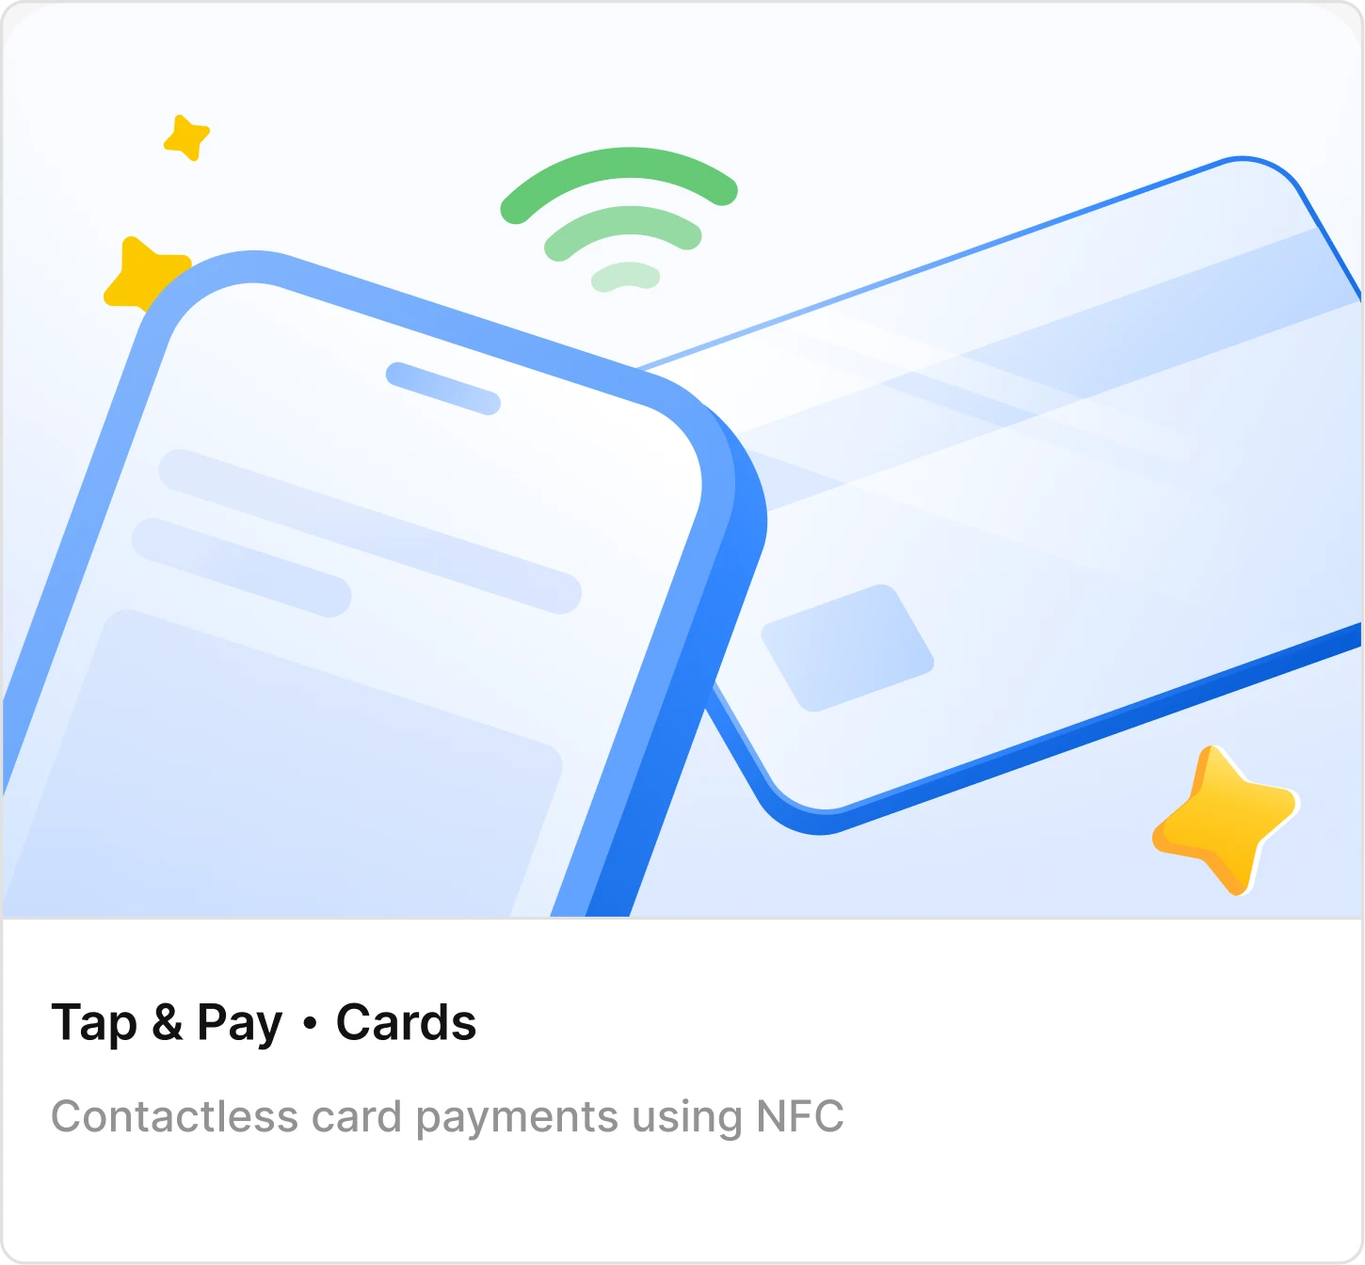
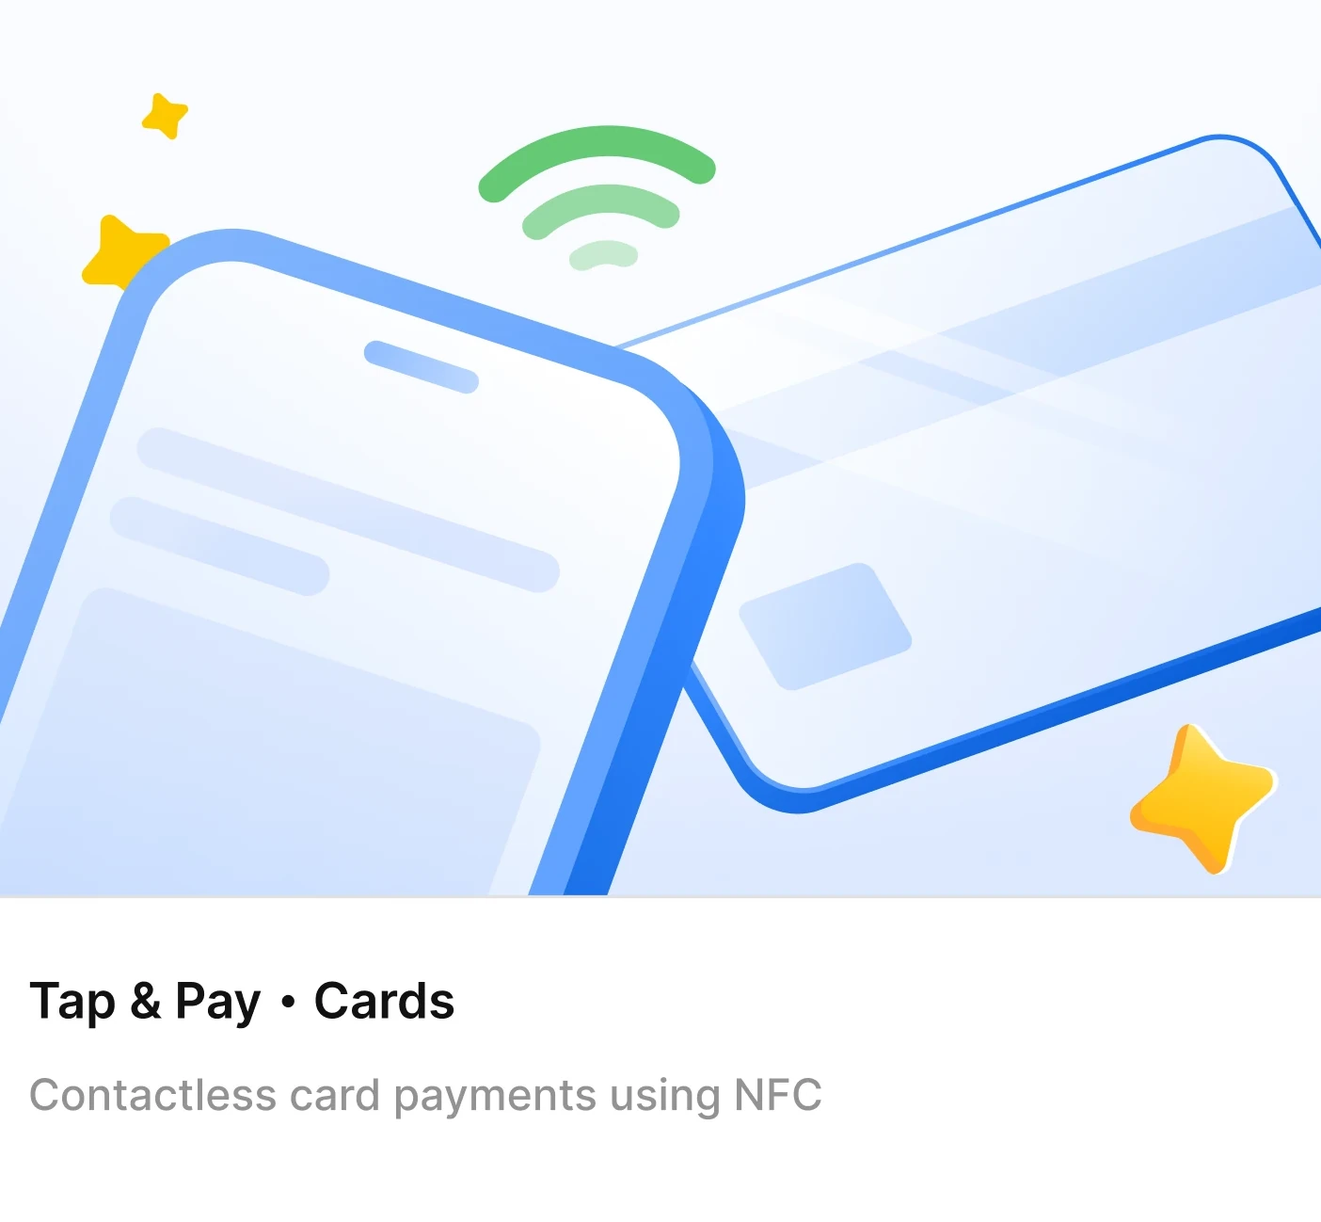
feat: minor bug fixes and formatting

diff --git a/work/juspay-dashboard.html b/work/juspay-dashboard.html
@@ -10,7 +10,8 @@
 <body class="inner">
 <header class="band"><nav class="nav wrap" aria-label="Main">
   <a class="name" href="../index.html">Ankita Saha</a>
-  <div class="right">
+  <button class="nav-toggle" type="button" aria-label="Open menu" aria-expanded="false" aria-controls="nav-menu"><span></span><span></span><span></span></button>
+  <div class="right" id="nav-menu">
     <div class="links"><a href="../index.html#work" aria-current="page">Work</a><a href="../play.html">Play</a><a href="../assets/Ankita-Saha-Resume.pdf" target="_blank" rel="noopener" data-download="Ankita-Saha-Resume.pdf">Resume</a><a href="../about.html">About</a></div>
     <div class="social">
       <a href="https://mail.google.com/mail/?view=cm&fs=1&to=ankitasaha2310@gmail.com" target="_blank" rel="noopener" aria-label="Email Ankita"><svg viewBox="0 0 24 24" fill="none" stroke="currentColor" stroke-width="2" stroke-linejoin="round"><rect x="2.5" y="4.5" width="19" height="15" rx="3"/><path d="M3.5 7l8.5 6 8.5-6"/></svg></a>
@@ -18,7 +19,7 @@
       <a href="https://www.instagram.com/artsvetro/" target="_blank" rel="noopener" aria-label="Instagram"><svg viewBox="0 0 24 24" fill="none" stroke="currentColor" stroke-width="2"><rect x="2.5" y="2.5" width="19" height="19" rx="5.5"/><circle cx="12" cy="12" r="4.3"/><circle cx="17.6" cy="6.4" r="1.1" fill="currentColor" stroke="none"/></svg></a>
     </div>
   </div>
-</nav></header>
+</nav><div class="nav-scrim"></div></header>
 <main class="sheet">
   <h1 class="cs-title">Visual Design System</h1>
   <p class="lede">A visual design system for the Juspay dashboard, the control room of a platform processing over 300 million transactions a day. It spans a four-style icon library, a state illustration set with color reserved for meaning, and illustrated thumbnails for the feature catalog.</p>
@@ -85,8 +86,8 @@
     <div class="row cols-6" style="margin-top:calc(100 * var(--s))"><div><figure class="slot contain" style="--ar:1/1;background:transparent" data-label="Success"><img src="../assets/dashboard/status-success.webp" alt="" loading="lazy"></figure><p class="caption">Success</p></div><div><figure class="slot contain" style="--ar:1/1;background:transparent" data-label="Approved"><img src="../assets/dashboard/status-approved.webp" alt="" loading="lazy"></figure><p class="caption">Approved</p></div><div><figure class="slot contain" style="--ar:1/1;background:transparent" data-label="KYC Complete"><img src="../assets/dashboard/status-kyc-complete.webp" alt="" loading="lazy"></figure><p class="caption">KYC Complete</p></div><div><figure class="slot contain" style="--ar:1/1;background:transparent" data-label="Info"><img src="../assets/dashboard/status-info.webp" alt="" loading="lazy"></figure><p class="caption">Info</p></div><div><figure class="slot contain" style="--ar:1/1;background:transparent" data-label="Alert"><img src="../assets/dashboard/status-alert.webp" alt="" loading="lazy"></figure><p class="caption">Alert</p></div><div><figure class="slot contain" style="--ar:1/1;background:transparent" data-label="Error"><img src="../assets/dashboard/status-error.webp" alt="" loading="lazy"></figure><p class="caption">Error</p></div></div></section>
   <section class="sec"><div class="sec-head"><h2 class="xl">Thumbnails</h2><p>Covers that explain a feature before anyone reads the card.</p></div>
     <div class="row cols-2" style="text-align:center;font:500 max(15px,calc(24 * var(--s)))/1.2 var(--f-body);margin-bottom:calc(40 * var(--s))"><span>Before</span><span>After</span></div>
-    <div class="row cols-2"><figure class="slot contain" style="--ar:751/672;background:transparent" data-label="assets/dashboard/thumbnail-before.webp  (751×672)"><img src="../assets/dashboard/thumbnail-before.webp" alt="Feature thumbnail before the redesign" loading="lazy"></figure><figure class="slot contain" style="--ar:751/672;background:transparent" data-label="assets/dashboard/thumbnail-after.webp  (751×672)"><img src="../assets/dashboard/thumbnail-after.webp" alt="Feature thumbnail after the redesign" loading="lazy"></figure></div>
-    <div style="margin-top:calc(60 * var(--s))"><figure class="slot " style="--ar:3064/2849;background:transparent" data-label="assets/dashboard/thumbnail-grid.webp"><img src="../assets/dashboard/thumbnail-grid.webp" alt="Grid of illustrated feature thumbnails" loading="lazy"></figure></div></section>
+    <div class="row cols-2"><figure class="slot contain thumb-card" style="--ar:1457/1296;background:transparent" data-label="assets/dashboard/thumbnail-before.webp  (1457×1296)"><img src="../assets/dashboard/thumbnail-before.webp" alt="Feature thumbnail before the redesign" loading="lazy"></figure><figure class="slot contain thumb-card thumb-after" style="--ar:1404/1298;background:transparent" data-label="assets/dashboard/thumbnail-after.webp  (1404×1298)"><img src="../assets/dashboard/thumbnail-after.webp" alt="Feature thumbnail after the redesign" loading="lazy"></figure></div>
+    <div style="margin-top:calc(60 * var(--s))"><figure class="slot " style="--ar:3032/2817;background:transparent" data-label="assets/dashboard/thumbnail-grid.webp"><img src="../assets/dashboard/thumbnail-grid.webp" alt="Grid of illustrated feature thumbnails" loading="lazy"></figure></div></section>
 <nav class="proj-nav" aria-label="Project navigation"><a class="prev-proj" href="../work/hyperswitch-recon-video.html"><span class="np-label">Previous project</span><span class="np-title"><svg viewBox="0 0 24 24" fill="none" stroke="currentColor" stroke-width="2" stroke-linecap="round" stroke-linejoin="round" aria-hidden="true"><path d="M19 12H5M11 6l-6 6 6 6"/></svg>Hyperswitch Recon launch video</span></a><a class="next-proj" href="../work/xyne-icons.html"><span class="np-label">Next project</span><span class="np-title">Xyne icon system<svg viewBox="0 0 24 24" fill="none" stroke="currentColor" stroke-width="2" stroke-linecap="round" stroke-linejoin="round" aria-hidden="true"><path d="M5 12h14M13 6l6 6-6 6"/></svg></span></a></nav>
 </main>
 <script src="../site.js"></script>

diff --git a/style.css b/style.css
@@ -147,8 +147,6 @@ body.resume{background:var(--page)}
 /* ===== Mobile ===== */
 @media (max-width:760px){
   .wrap{width:calc(100% - 40px)}
-  .nav{flex-wrap:wrap;row-gap:10px}
-  .nav .right{gap:18px;width:100%;justify-content:space-between}
   .nav .links{gap:18px}
   .band{height:auto;padding:14px 0}
   #work{scroll-margin-top:96px}
@@ -360,3 +358,75 @@ body.resume::after{display:none}
 .np-title svg{display:inline-block;width:1em;height:1em;vertical-align:-.1em}
 .next-proj .np-title svg{margin-left:.3em}
 .prev-proj .np-title svg{margin-right:.3em}
+
+/* ===== Round 5: hero copy block, larger headline, mobile nav drawer ===== */
+/* Headline and the two meta lines read as one group, the meta sitting a little
+   down the hero rather than pinned to its bottom edge. The copy column is sized
+   to the headline's longest line (max-content), so the meta row spans exactly
+   the headline's width and "Designing Juspay" ends where the headline ends. */
+.hero-copy{justify-content:flex-start;gap:calc(96 * var(--s));
+  padding:calc(150 * var(--s)) 0 calc(36 * var(--s))}
+@media (min-width:761px){
+  /* max-content keeps the column exactly as wide as the headline's longest line;
+     on phones the copy stays a plain stacked column so nothing can overflow */
+  .hero-copy{display:grid;grid-template-columns:max-content;align-content:start;justify-items:start}
+  .hero .meta{width:100%}
+  .hero-art{width:89.72%;max-width:calc(581 * var(--s))}   /* 5% smaller than the Figma 612 */
+}
+.hero h1{font-size:max(32px,calc(84 * var(--s)))}
+
+/* --- mobile nav: hamburger + side drawer --- */
+.nav-toggle{display:none;background:none;border:0;padding:10px;margin:-10px -6px -10px 0;cursor:pointer;
+  color:inherit;flex-direction:column;justify-content:center;gap:5px;width:44px;height:44px}
+.nav-toggle span{display:block;width:22px;height:2px;background:currentColor;border-radius:2px;
+  transition:transform .25s ease,opacity .2s ease}
+.nav-scrim{display:none}
+@media (max-width:760px){
+  .nav{position:relative}
+  .nav-toggle{display:flex;position:relative;z-index:46}
+  body.nav-open .nav-toggle span:nth-child(1){transform:translateY(7px) rotate(45deg)}
+  body.nav-open .nav-toggle span:nth-child(2){opacity:0}
+  body.nav-open .nav-toggle span:nth-child(3){transform:translateY(-7px) rotate(-45deg)}
+
+  /* the menu itself becomes a panel that slides in from the right edge */
+  .nav .right{position:fixed;top:0;right:0;z-index:45;height:100dvh;width:min(76vw,300px);
+    background:var(--ink-dark);color:#fff;flex-direction:column;align-items:flex-start;justify-content:flex-start;
+    gap:32px;padding:calc(max(64px,118 * var(--s)) + 24px) 28px 32px;
+    transform:translateX(100%);transition:transform .3s ease;overflow-y:auto;
+    box-shadow:-12px 0 32px rgba(0,0,0,.25);visibility:hidden}
+  .band-light .right{background:#fff;color:var(--ink-dark)}
+  body.nav-open .nav .right{transform:none;visibility:visible}
+  .nav .links{flex-direction:column;align-items:flex-start;gap:22px;font-size:20px;letter-spacing:0}
+  .nav .social{gap:22px}
+  .nav .social svg{width:22px}
+
+  .nav-scrim{display:block;position:fixed;inset:0;z-index:42;background:rgba(0,0,0,.5);
+    opacity:0;pointer-events:none;transition:opacity .3s ease}
+  body.nav-open .nav-scrim{opacity:1;pointer-events:auto}
+  body.nav-open{overflow:hidden}
+}
+
+/* --- other small-screen fixes --- */
+@media (max-width:760px){
+  /* justified copy opens up rivers of whitespace at this measure */
+  .lede,.split p{text-align:left}
+  .hero h1{font-size:clamp(32px,8.5vw,46px)}
+  .hero-copy{padding:36px 0 0;gap:18px}
+  /* let the illustration size to its own height instead of sitting in a
+     letterboxed 612x637 box with dead space above and below */
+  .hero-art .slot{aspect-ratio:auto}
+  .hero-art .slot>img{position:static;width:100%;height:auto}
+  .cs-title{font-size:clamp(26px,7vw,34px)}
+  .proj-nav .np-title{font-size:clamp(18px,5.2vw,24px)}
+  .tabs{gap:8px}
+  .tabs button{padding:.5em 1em}
+}
+
+/* --- Juspay thumbnail cards --- */
+/* The card outline used to be baked into the artwork, flush with the image
+   boundary, where it rendered as a grey hairline. It is cropped out of the
+   source files now, so the silhouette is drawn here instead. The After art is
+   fractionally narrower than the Before art, so it is sized by width to keep
+   both cards at exactly the same height. */
+.thumb-card{border-radius:calc(10 * var(--s))}
+.thumb-after{width:96.22%;margin-inline:auto}

diff --git a/play.html b/play.html
@@ -10,7 +10,8 @@
 <body class="inner">
 <header class="band"><nav class="nav wrap" aria-label="Main">
   <a class="name" href="index.html">Ankita Saha</a>
-  <div class="right">
+  <button class="nav-toggle" type="button" aria-label="Open menu" aria-expanded="false" aria-controls="nav-menu"><span></span><span></span><span></span></button>
+  <div class="right" id="nav-menu">
     <div class="links"><a href="index.html#work">Work</a><a href="play.html" aria-current="page">Play</a><a href="assets/Ankita-Saha-Resume.pdf" target="_blank" rel="noopener" data-download="Ankita-Saha-Resume.pdf">Resume</a><a href="about.html">About</a></div>
     <div class="social">
       <a href="https://mail.google.com/mail/?view=cm&fs=1&to=ankitasaha2310@gmail.com" target="_blank" rel="noopener" aria-label="Email Ankita"><svg viewBox="0 0 24 24" fill="none" stroke="currentColor" stroke-width="2" stroke-linejoin="round"><rect x="2.5" y="4.5" width="19" height="15" rx="3"/><path d="M3.5 7l8.5 6 8.5-6"/></svg></a>
@@ -18,7 +19,7 @@
       <a href="https://www.instagram.com/artsvetro/" target="_blank" rel="noopener" aria-label="Instagram"><svg viewBox="0 0 24 24" fill="none" stroke="currentColor" stroke-width="2"><rect x="2.5" y="2.5" width="19" height="19" rx="5.5"/><circle cx="12" cy="12" r="4.3"/><circle cx="17.6" cy="6.4" r="1.1" fill="currentColor" stroke="none"/></svg></a>
     </div>
   </div>
-</nav></header>
+</nav><div class="nav-scrim"></div></header>
 <main class="sheet"><div class="play">
   <div class="prow"><div style="flex:1041 1 0"><figure class="slot " style="--ar:1041/477;" data-label="assets/play/forest-scene.webp  (1041×477)"><img src="assets/play/forest-scene.webp" alt="Tiger peeking out of a night jungle" loading="lazy"></figure></div><div style="flex:477 1 0"><figure class="slot " style="--ar:954/954;" data-label="assets/play/artwork-square.webp  (954×954)"><img src="assets/play/artwork-square.webp" alt="Multi-armed designer juggling tools" loading="lazy"></figure></div></div>
   <div class="prow"><div style="flex:505 1 0"><figure class="slot " style="--ar:1011/1265;" data-label="assets/play/artwork-portrait.webp  (1011×1265)"><img src="assets/play/artwork-portrait.webp" alt="Isometric Flam city illustration" loading="lazy"></figure></div><div style="flex:1011 1 0"><figure class="slot " style="--ar:2022/1264;" data-label="assets/play/artwork-wide.webp  (2022×1264)"><img src="assets/play/artwork-wide.webp" alt="Isometric retro objects on cream" loading="lazy"></figure></div></div>

diff --git a/work/hyperswitch-recon-video.html b/work/hyperswitch-recon-video.html
@@ -10,7 +10,8 @@
 <body class="inner">
 <header class="band"><nav class="nav wrap" aria-label="Main">
   <a class="name" href="../index.html">Ankita Saha</a>
-  <div class="right">
+  <button class="nav-toggle" type="button" aria-label="Open menu" aria-expanded="false" aria-controls="nav-menu"><span></span><span></span><span></span></button>
+  <div class="right" id="nav-menu">
     <div class="links"><a href="../index.html#work" aria-current="page">Work</a><a href="../play.html">Play</a><a href="../assets/Ankita-Saha-Resume.pdf" target="_blank" rel="noopener" data-download="Ankita-Saha-Resume.pdf">Resume</a><a href="../about.html">About</a></div>
     <div class="social">
       <a href="https://mail.google.com/mail/?view=cm&fs=1&to=ankitasaha2310@gmail.com" target="_blank" rel="noopener" aria-label="Email Ankita"><svg viewBox="0 0 24 24" fill="none" stroke="currentColor" stroke-width="2" stroke-linejoin="round"><rect x="2.5" y="4.5" width="19" height="15" rx="3"/><path d="M3.5 7l8.5 6 8.5-6"/></svg></a>
@@ -18,7 +19,7 @@
       <a href="https://www.instagram.com/artsvetro/" target="_blank" rel="noopener" aria-label="Instagram"><svg viewBox="0 0 24 24" fill="none" stroke="currentColor" stroke-width="2"><rect x="2.5" y="2.5" width="19" height="19" rx="5.5"/><circle cx="12" cy="12" r="4.3"/><circle cx="17.6" cy="6.4" r="1.1" fill="currentColor" stroke="none"/></svg></a>
     </div>
   </div>
-</nav></header>
+</nav><div class="nav-scrim"></div></header>
 <main class="sheet">
   <h1 class="cs-title">Recon by Hyperswitch</h1>
   <p class="lede roboto">Recon is Hyperswitch's reconciliation product. It automatically matches transactions across a business's order management systems, payment providers and bank accounts, so every payment can be traced from order to settlement.</p><p class="lede roboto">Made for merchants, the film opens with the problem: scattered data, clashing formats and endless manual checks. It then introduces Recon and walks through how it works, from ingesting and cleaning data to matching transactions, resolving mismatches and exporting reports. I developed the concept and visuals.</p>

diff --git a/work/sbmd-launch-video.html b/work/sbmd-launch-video.html
@@ -10,7 +10,8 @@
 <body class="inner">
 <header class="band"><nav class="nav wrap" aria-label="Main">
   <a class="name" href="../index.html">Ankita Saha</a>
-  <div class="right">
+  <button class="nav-toggle" type="button" aria-label="Open menu" aria-expanded="false" aria-controls="nav-menu"><span></span><span></span><span></span></button>
+  <div class="right" id="nav-menu">
     <div class="links"><a href="../index.html#work" aria-current="page">Work</a><a href="../play.html">Play</a><a href="../assets/Ankita-Saha-Resume.pdf" target="_blank" rel="noopener" data-download="Ankita-Saha-Resume.pdf">Resume</a><a href="../about.html">About</a></div>
     <div class="social">
       <a href="https://mail.google.com/mail/?view=cm&fs=1&to=ankitasaha2310@gmail.com" target="_blank" rel="noopener" aria-label="Email Ankita"><svg viewBox="0 0 24 24" fill="none" stroke="currentColor" stroke-width="2" stroke-linejoin="round"><rect x="2.5" y="4.5" width="19" height="15" rx="3"/><path d="M3.5 7l8.5 6 8.5-6"/></svg></a>
@@ -18,7 +19,7 @@
       <a href="https://www.instagram.com/artsvetro/" target="_blank" rel="noopener" aria-label="Instagram"><svg viewBox="0 0 24 24" fill="none" stroke="currentColor" stroke-width="2"><rect x="2.5" y="2.5" width="19" height="19" rx="5.5"/><circle cx="12" cy="12" r="4.3"/><circle cx="17.6" cy="6.4" r="1.1" fill="currentColor" stroke="none"/></svg></a>
     </div>
   </div>
-</nav></header>
+</nav><div class="nav-scrim"></div></header>
 <main class="sheet">
   <h1 class="cs-title">SBMD : Single block multi debit</h1>
   <p class="lede roboto">SBMD (Single Block, Multiple Debit) is a UPI payment option by Juspay that lets merchants block an amount once and debit it in parts as orders are fulfilled, while the customer's money keeps earning interest.</p><p class="lede roboto">Made for merchants, the film frames the problem, introduces SBMD as the fix and shows it at work in real use cases. I developed the concept, storyboard and key visuals.</p>

diff --git a/work/xyne-icons.html b/work/xyne-icons.html
@@ -10,7 +10,8 @@
 <body class="inner">
 <header class="band"><nav class="nav wrap" aria-label="Main">
   <a class="name" href="../index.html">Ankita Saha</a>
-  <div class="right">
+  <button class="nav-toggle" type="button" aria-label="Open menu" aria-expanded="false" aria-controls="nav-menu"><span></span><span></span><span></span></button>
+  <div class="right" id="nav-menu">
     <div class="links"><a href="../index.html#work" aria-current="page">Work</a><a href="../play.html">Play</a><a href="../assets/Ankita-Saha-Resume.pdf" target="_blank" rel="noopener" data-download="Ankita-Saha-Resume.pdf">Resume</a><a href="../about.html">About</a></div>
     <div class="social">
       <a href="https://mail.google.com/mail/?view=cm&fs=1&to=ankitasaha2310@gmail.com" target="_blank" rel="noopener" aria-label="Email Ankita"><svg viewBox="0 0 24 24" fill="none" stroke="currentColor" stroke-width="2" stroke-linejoin="round"><rect x="2.5" y="4.5" width="19" height="15" rx="3"/><path d="M3.5 7l8.5 6 8.5-6"/></svg></a>
@@ -18,7 +19,7 @@
       <a href="https://www.instagram.com/artsvetro/" target="_blank" rel="noopener" aria-label="Instagram"><svg viewBox="0 0 24 24" fill="none" stroke="currentColor" stroke-width="2"><rect x="2.5" y="2.5" width="19" height="19" rx="5.5"/><circle cx="12" cy="12" r="4.3"/><circle cx="17.6" cy="6.4" r="1.1" fill="currentColor" stroke="none"/></svg></a>
     </div>
   </div>
-</nav></header>
+</nav><div class="nav-scrim"></div></header>
 <main class="sheet">
   <h1 class="cs-title">Product Iconography System</h1>
   <p class="lede">Xyne Space is a collaborative workplace communication tool that brings teams' workflows into one place, so they no longer have to switch between tools. I designed its product iconography library: 135+ icons across 45+ core metaphors, built from clean geometric shapes on a shared grid, with one stroke weight and consistent rounded corners.</p>

diff --git a/about.html b/about.html
@@ -10,7 +10,8 @@
 <body class="inner">
 <header class="band"><nav class="nav wrap" aria-label="Main">
   <a class="name" href="index.html">Ankita Saha</a>
-  <div class="right">
+  <button class="nav-toggle" type="button" aria-label="Open menu" aria-expanded="false" aria-controls="nav-menu"><span></span><span></span><span></span></button>
+  <div class="right" id="nav-menu">
     <div class="links"><a href="index.html#work">Work</a><a href="play.html">Play</a><a href="assets/Ankita-Saha-Resume.pdf" target="_blank" rel="noopener" data-download="Ankita-Saha-Resume.pdf">Resume</a><a href="about.html" aria-current="page">About</a></div>
     <div class="social">
       <a href="https://mail.google.com/mail/?view=cm&fs=1&to=ankitasaha2310@gmail.com" target="_blank" rel="noopener" aria-label="Email Ankita"><svg viewBox="0 0 24 24" fill="none" stroke="currentColor" stroke-width="2" stroke-linejoin="round"><rect x="2.5" y="4.5" width="19" height="15" rx="3"/><path d="M3.5 7l8.5 6 8.5-6"/></svg></a>
@@ -18,7 +19,7 @@
       <a href="https://www.instagram.com/artsvetro/" target="_blank" rel="noopener" aria-label="Instagram"><svg viewBox="0 0 24 24" fill="none" stroke="currentColor" stroke-width="2"><rect x="2.5" y="2.5" width="19" height="19" rx="5.5"/><circle cx="12" cy="12" r="4.3"/><circle cx="17.6" cy="6.4" r="1.1" fill="currentColor" stroke="none"/></svg></a>
     </div>
   </div>
-</nav></header>
+</nav><div class="nav-scrim"></div></header>
 <main class="wrap about">
   <div class="bio">
     <p><b>Ankita Saha</b> is a visual designer and artist based in Bangalore, currently designing at Juspay. She holds a B.Tech in Computer Science and Engineering from Amity University, Kolkata, and brings over four years of multidisciplinary craft to high-scale digital platforms.</p>

diff --git a/index.html b/index.html
@@ -10,7 +10,8 @@
 <body class="home">
 <header class="band"><nav class="nav wrap" aria-label="Main">
   <a class="name" href="index.html">Ankita Saha</a>
-  <div class="right">
+  <button class="nav-toggle" type="button" aria-label="Open menu" aria-expanded="false" aria-controls="nav-menu"><span></span><span></span><span></span></button>
+  <div class="right" id="nav-menu">
     <div class="links"><a href="index.html#work">Work</a><a href="play.html">Play</a><a href="assets/Ankita-Saha-Resume.pdf" target="_blank" rel="noopener" data-download="Ankita-Saha-Resume.pdf">Resume</a><a href="about.html">About</a></div>
     <div class="social">
       <a href="https://mail.google.com/mail/?view=cm&fs=1&to=ankitasaha2310@gmail.com" target="_blank" rel="noopener" aria-label="Email Ankita"><svg viewBox="0 0 24 24" fill="none" stroke="currentColor" stroke-width="2" stroke-linejoin="round"><rect x="2.5" y="4.5" width="19" height="15" rx="3"/><path d="M3.5 7l8.5 6 8.5-6"/></svg></a>
@@ -18,7 +19,7 @@
       <a href="https://www.instagram.com/artsvetro/" target="_blank" rel="noopener" aria-label="Instagram"><svg viewBox="0 0 24 24" fill="none" stroke="currentColor" stroke-width="2"><rect x="2.5" y="2.5" width="19" height="19" rx="5.5"/><circle cx="12" cy="12" r="4.3"/><circle cx="17.6" cy="6.4" r="1.1" fill="currentColor" stroke="none"/></svg></a>
     </div>
   </div>
-</nav></header>
+</nav><div class="nav-scrim"></div></header>
 <section class="hero">
 <div class="hero-inner">
 <div class="hero-copy">

diff --git a/site.js b/site.js
@@ -29,3 +29,12 @@ document.querySelectorAll('.tabs[data-target]').forEach(function(g){
     g.querySelectorAll('button').forEach(function(x){x.setAttribute('aria-pressed',x===b?'true':'false');});
     var slot=document.getElementById(g.dataset.target).querySelector('.slot');
     slot.setAttribute('data-label',b.dataset.src);fillSlot(slot,b.dataset.src);});});
+(function(){var t=document.querySelector('.nav-toggle');if(!t)return;
+  var menu=document.getElementById('nav-menu'),scrim=document.querySelector('.nav-scrim'),b=document.body;
+  function set(open){b.classList.toggle('nav-open',open);t.setAttribute('aria-expanded',open?'true':'false');
+    t.setAttribute('aria-label',open?'Close menu':'Open menu');}
+  t.addEventListener('click',function(){set(!b.classList.contains('nav-open'));});
+  if(scrim)scrim.addEventListener('click',function(){set(false);});
+  if(menu)menu.addEventListener('click',function(e){if(e.target.closest('a'))set(false);});
+  document.addEventListener('keydown',function(e){if(e.key==='Escape')set(false);});
+  addEventListener('resize',function(){if(innerWidth>760)set(false);});})();
